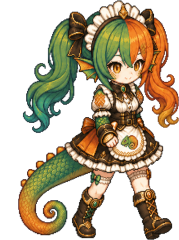
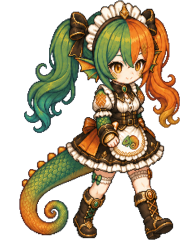
Remove white pockets + add timed bosses (oni 3min, zonbi 8min)
- Reprocess character frames: also clear enclosed pure-neutral white
  pockets (bg colour) while keeping warm cream apron/sleeves
- Bosses: oni at 3:00, zonbi at 8:00 - large high-HP enemies with a
  top boss HP bar, knockback resist, and a big food+chest reward
- Use assets/boss_oni.png / boss_zonbi.png when present; otherwise a
  code-drawn demon / zombie fallback

diff --git a/chameleon-survivors/index.html b/chameleon-survivors/index.html
@@ -192,6 +192,9 @@ for (const d of DIRS) {
   const w1 = new Image(); w1.src = "assets/char_" + d + "_w1.png";
   CHAR[d] = { idle, walk: [w0, w1] };
 }
+// boss art (optional): falls back to code-drawn sprite until uploaded
+const BOSS_IMG = {};
+for (const b of ["oni", "zonbi"]) { const im = new Image(); im.src = "assets/boss_" + b + ".png"; BOSS_IMG[b] = im; }
 let game;
 function newGame() {
   return {
@@ -226,6 +229,11 @@ function newGame() {
     kills: 0,
     spawnTimer: 0,
     chestTimer: 14,
+    boss: null,              // current live boss (for HP bar)
+    bossQueue: [             // timed boss appearances (one-shot)
+      { bossImg:"oni",   shape:"oni",    name:"鬼",     time:180, hp:1800, r:58, speed:44, dmg:34, xp:120, done:false },
+      { bossImg:"zonbi", shape:"zombie", name:"ゾンビ", time:480, hp:7000, r:72, speed:38, dmg:50, xp:300, done:false },
+    ],
     banner: null,            // { text, t }
     flash: 0,                // white screen flash (nuke)
     biome: pickBiome(),
@@ -325,11 +333,33 @@ function damageEnemy(e, dmg, kx, ky) {
 function killEnemy(e) {
   e.dead = true; game.kills++;
   Audio.kill();
+  if (e.boss) { bossReward(e); return; }
   // leave an edible morsel that gets sucked into the chameleon's mouth
   game.food.push({ x:e.x, y:e.y, type:e.type, xp:e.xp, r:e.r*0.7, t:0, delay:rand(0,0.08) });
   for (let i = 0; i < 6; i++)
     game.particles.push({ x:e.x, y:e.y, vx:rand(-100,100), vy:rand(-100,100),
       t:rand(.2,.45), c:e.color, r:rand(1.5,3) });
+}
+function spawnBoss(cfg) {
+  const p = game.player;
+  const ang = Math.random() * TAU, d = Math.max(W, H) * 0.6 + 100;
+  const e = { type:cfg.shape, boss:true, bossImg:cfg.bossImg, name:cfg.name,
+    x:p.x + Math.cos(ang)*d, y:p.y + Math.sin(ang)*d,
+    r:cfg.r, hp:cfg.hp, maxhp:cfg.hp, speed:cfg.speed, dmg:cfg.dmg, xp:cfg.xp,
+    color: cfg.shape === "oni" ? "#d23b2e" : "#6fae57", wob:false, hit:0, phase:0, kx:0, ky:0 };
+  game.enemies.push(e); game.boss = e;
+  banner(`⚠ ${cfg.name} 出現！`); Audio.boom(); game.shake = 14;
+}
+function bossReward(e) {
+  if (game.boss === e) game.boss = null;
+  banner(`★ ${e.name} 撃破！★`);
+  game.shake = 18; game.flash = 0.45; Audio.levelup();
+  const chunk = Math.max(2, Math.round(e.xp / 24));
+  for (let i = 0; i < 24; i++)
+    game.food.push({ x:e.x + rand(-50,50), y:e.y + rand(-50,50), type:e.type, xp:chunk, r:e.r*0.16, t:0, delay:rand(0,0.6) });
+  for (let i = 0; i < 30; i++)
+    game.particles.push({ x:e.x, y:e.y, vx:rand(-220,220), vy:rand(-220,220), t:rand(.4,.9), c:e.color, r:rand(2,4.5) });
+  game.chests.push({ x:e.x, y:e.y, r:16, bob:0 });
 }
 // chameleon mouth position (front of facing direction)
 function mouthPos() {
@@ -517,6 +547,11 @@ function update(dt) {
     game.spawnTimer = spawnInterval;
   }
 
+  // ---- bosses (timed, one-shot) ----
+  for (const bq of game.bossQueue)
+    if (!bq.done && game.time >= bq.time) { bq.done = true; spawnBoss(bq); }
+  if (game.boss && game.boss.dead) game.boss = null;
+
   // ---- chests ----
   game.chestTimer -= dt;
   if (game.chestTimer <= 0 && game.chests.length < 2) { spawnChest(); game.chestTimer = 22; }
@@ -566,7 +601,9 @@ function update(dt) {
       if (d2 < rr*rr && d2 > 0.01) {
         const d = Math.sqrt(d2); const push = (rr - d) * 0.5;
         const nx = dx/d, ny = dy/d;
-        a.x -= nx*push; a.y -= ny*push; b.x += nx*push; b.y += ny*push;
+        if (a.boss && !b.boss) { b.x += nx*push*2; b.y += ny*push*2; }        // bosses don't get shoved
+        else if (b.boss && !a.boss) { a.x -= nx*push*2; a.y -= ny*push*2; }
+        else { a.x -= nx*push; a.y -= ny*push; b.x += nx*push; b.y += ny*push; }
       }
     }
   }
@@ -634,12 +671,14 @@ function buildSprites() {
   PLAYER_SPRITE = mkCanvas(44, 66);
   drawGirl(PLAYER_SPRITE.getContext("2d"));
 
-  // ---- enemies: distinct silhouettes per shape ----
-  for (const [type, base] of Object.entries(ENEMY_TYPES)) {
+  // ---- enemies: distinct silhouettes per shape (+ oni boss fallback) ----
+  const shapes = Object.entries(ENEMY_TYPES).map(([t,b]) => [t, b.shape, b.color]);
+  shapes.push(["oni", "oni", "#d23b2e"]);
+  for (const [type, shape, color] of shapes) {
     const cv2 = mkCanvas(ENEMY_CS, ENEMY_CS); ENEMY_SPRITES[type] = cv2;
     const g2 = cv2.getContext("2d");
     g2.translate(ENEMY_CS/2, ENEMY_CS/2);    // center origin
-    drawCreature(g2, base.shape, base.color, ENEMY_BR);
+    drawCreature(g2, shape, color, ENEMY_BR);
   }
 
   // ---- gear: baked at player-sprite resolution so it matches the pixel look ----
@@ -795,6 +834,17 @@ function drawCreature(g, shape, color, R) {
     g.moveTo(3, -6); g.lineTo(8, -1); g.moveTo(8, -6); g.lineTo(3, -1); g.stroke();
     g.beginPath(); g.moveTo(-5, 7); g.lineTo(5, 7);
     g.moveTo(-3, 6); g.lineTo(-3, 8); g.moveTo(0, 6); g.lineTo(0, 8); g.moveTo(3, 6); g.lineTo(3, 8); g.stroke();
+  } else if (shape === "oni") {            // boss fallback: red horned demon
+    g.fillStyle = "#f3e1b0";
+    g.beginPath(); g.moveTo(-R*0.7,-R*0.4); g.quadraticCurveTo(-R*1.15,-R*1.35,-R*0.45,-R*1.1); g.quadraticCurveTo(-R*0.6,-R*0.6,-R*0.45,-R*0.5); g.closePath(); g.fill();
+    g.beginPath(); g.moveTo(R*0.7,-R*0.4); g.quadraticCurveTo(R*1.15,-R*1.35,R*0.45,-R*1.1); g.quadraticCurveTo(R*0.6,-R*0.6,R*0.45,-R*0.5); g.closePath(); g.fill();
+    sphere(g, 0, 0, R, color);
+    g.strokeStyle = "#3a0d0d"; g.lineWidth = 2.5; g.lineCap = "round";
+    g.beginPath(); g.moveTo(-R*0.62,-R*0.28); g.lineTo(-R*0.14,-R*0.05); g.moveTo(R*0.62,-R*0.28); g.lineTo(R*0.14,-R*0.05); g.stroke();
+    g.fillStyle = "#ffd24b"; ell(g,-R*0.3,R*0.04,R*0.17,R*0.21); ell(g,R*0.3,R*0.04,R*0.17,R*0.21);
+    g.fillStyle = "#3a0d0d"; ell(g,-R*0.3,R*0.07,R*0.07,R*0.11); ell(g,R*0.3,R*0.07,R*0.07,R*0.11);
+    g.fillStyle = "#3a0d0d"; g.beginPath(); g.ellipse(0,R*0.46,R*0.36,R*0.2,0,0,TAU); g.fill();
+    g.fillStyle = "#fff"; tri(g,-R*0.24,R*0.34,-R*0.12,R*0.34,-R*0.18,R*0.6); tri(g,R*0.24,R*0.34,R*0.12,R*0.34,R*0.18,R*0.6);
   } else { // tank (spiked boss bug)
     g.fillStyle = shade(color, 0.6);
     for (let i = 0; i < 10; i++) { const a = i/10*TAU, c = Math.cos(a), s = Math.sin(a);
@@ -1016,6 +1066,20 @@ function drawGrid(camx, camy, color) {
 function drawEnemy(e) {
   const bob = e.wob ? Math.sin(e.phase)*2 : 0;
   groundShadow(e.x, e.y + e.r*0.4, e.r);
+  if (e.boss) {
+    const im = BOSS_IMG[e.bossImg];
+    if (im && im.complete && im.naturalHeight) {     // uploaded boss art
+      const s = (e.r * 3.0) / im.naturalHeight, w = im.naturalWidth*s, h = im.naturalHeight*s;
+      const prev = ctx.imageSmoothingEnabled; ctx.imageSmoothingEnabled = true;
+      ctx.drawImage(im, e.x - w/2, e.y + e.r*0.9 - h + bob, w, h);
+      ctx.imageSmoothingEnabled = prev;
+    } else {                                          // code-drawn fallback
+      blit(ENEMY_SPRITES[e.type] || ENEMY_SPRITES.tank, e.x, e.y + bob, e.r / ENEMY_BR, false);
+    }
+    if (e.hit > 0) { ctx.globalAlpha = clamp(e.hit/0.12,0,1)*0.7; ctx.fillStyle = "#fff";
+      ctx.beginPath(); ctx.arc(e.x, e.y + bob, e.r, 0, TAU); ctx.fill(); ctx.globalAlpha = 1; }
+    return;                                           // boss HP shown by the top bar
+  }
   const spr = ENEMY_SPRITES[e.type];
   blit(spr, e.x, e.y + bob, e.r / ENEMY_BR, false);
   if (e.hit > 0) {                          // white hit flash
@@ -1123,6 +1187,16 @@ function drawHUD() {
   ctx.font = "16px sans-serif";
   const gear = [p.equip.head, p.equip.body].filter(Boolean).map(it => it.ico).join(" ");
   if (gear) ctx.fillText(gear, W - 14, 64);
+  // boss HP bar (top center)
+  const b = game.boss;
+  if (b && !b.dead) {
+    const bw = Math.min(W - 80, 520), bx = (W - bw)/2, by = 56;
+    ctx.fillStyle = "rgba(0,0,0,.55)"; ctx.fillRect(bx, by, bw, 14);
+    ctx.fillStyle = "#d23b2e"; ctx.fillRect(bx, by, bw * clamp(b.hp/b.maxhp, 0, 1), 14);
+    ctx.strokeStyle = "rgba(255,255,255,.45)"; ctx.lineWidth = 1; ctx.strokeRect(bx, by, bw, 14);
+    ctx.fillStyle = "#fff"; ctx.font = "bold 12px sans-serif"; ctx.textAlign = "center";
+    ctx.fillText(`☠ BOSS  ${b.name}`, W/2, by - 3);
+  }
 }
 
 // ============================================================

diff --git a/chameleon-survivors/README.md b/chameleon-survivors/README.md
@@ -43,6 +43,7 @@ python3 -m http.server   # → http://localhost:8000/chameleon-survivors/
 - **9種の強化**：舌の速度/威力/射程/多段、移動速度、HP、再生、大食い（XP+）… でビルドが分岐
 - **装備品（頭／胴の2スロット）**：鉄兜（防御）/羽帽（速度）/不屈のヘルム（シールド）/狙撃ゴーグル（攻撃）/戦の鎧（攻撃大）/重甲羅（防御大）/巨大化スーツ/再生コート…効果は重ねがけ、**見た目もドット絵で変化**（兜・羽・王冠・ゴーグル・鎧・甲羅・巨大化・シールドリング）
 - **宝箱**：マップに🎁が出現（画面外なら端にマーカーで方向表示）。開けると**約50%で装備品3択／約50%で体力回復**
+- **ボス**：3分で「鬼(oni)」、8分で「ゾンビ(zonbi)」が出現。専用HPバー＋撃破で大量の経験値＆宝箱。`assets/boss_oni.png` `assets/boss_zonbi.png` があればそれを使用、無ければコード生成のスプライトで代替
 - **ランダムバイオーム**：開始ごとに「森の平野／岩地／サイバー基地」を抽選、背景プロップを手続き生成
 - **ドット絵＋陰影**：プレイヤー・敵をピクセルスプライト化（接地影つき、左右フリップ）
 - **サウンド & BGM**：効果音＋WebAudioで生成するチップチューンBGM（ファイル不要、`M`で消音）
